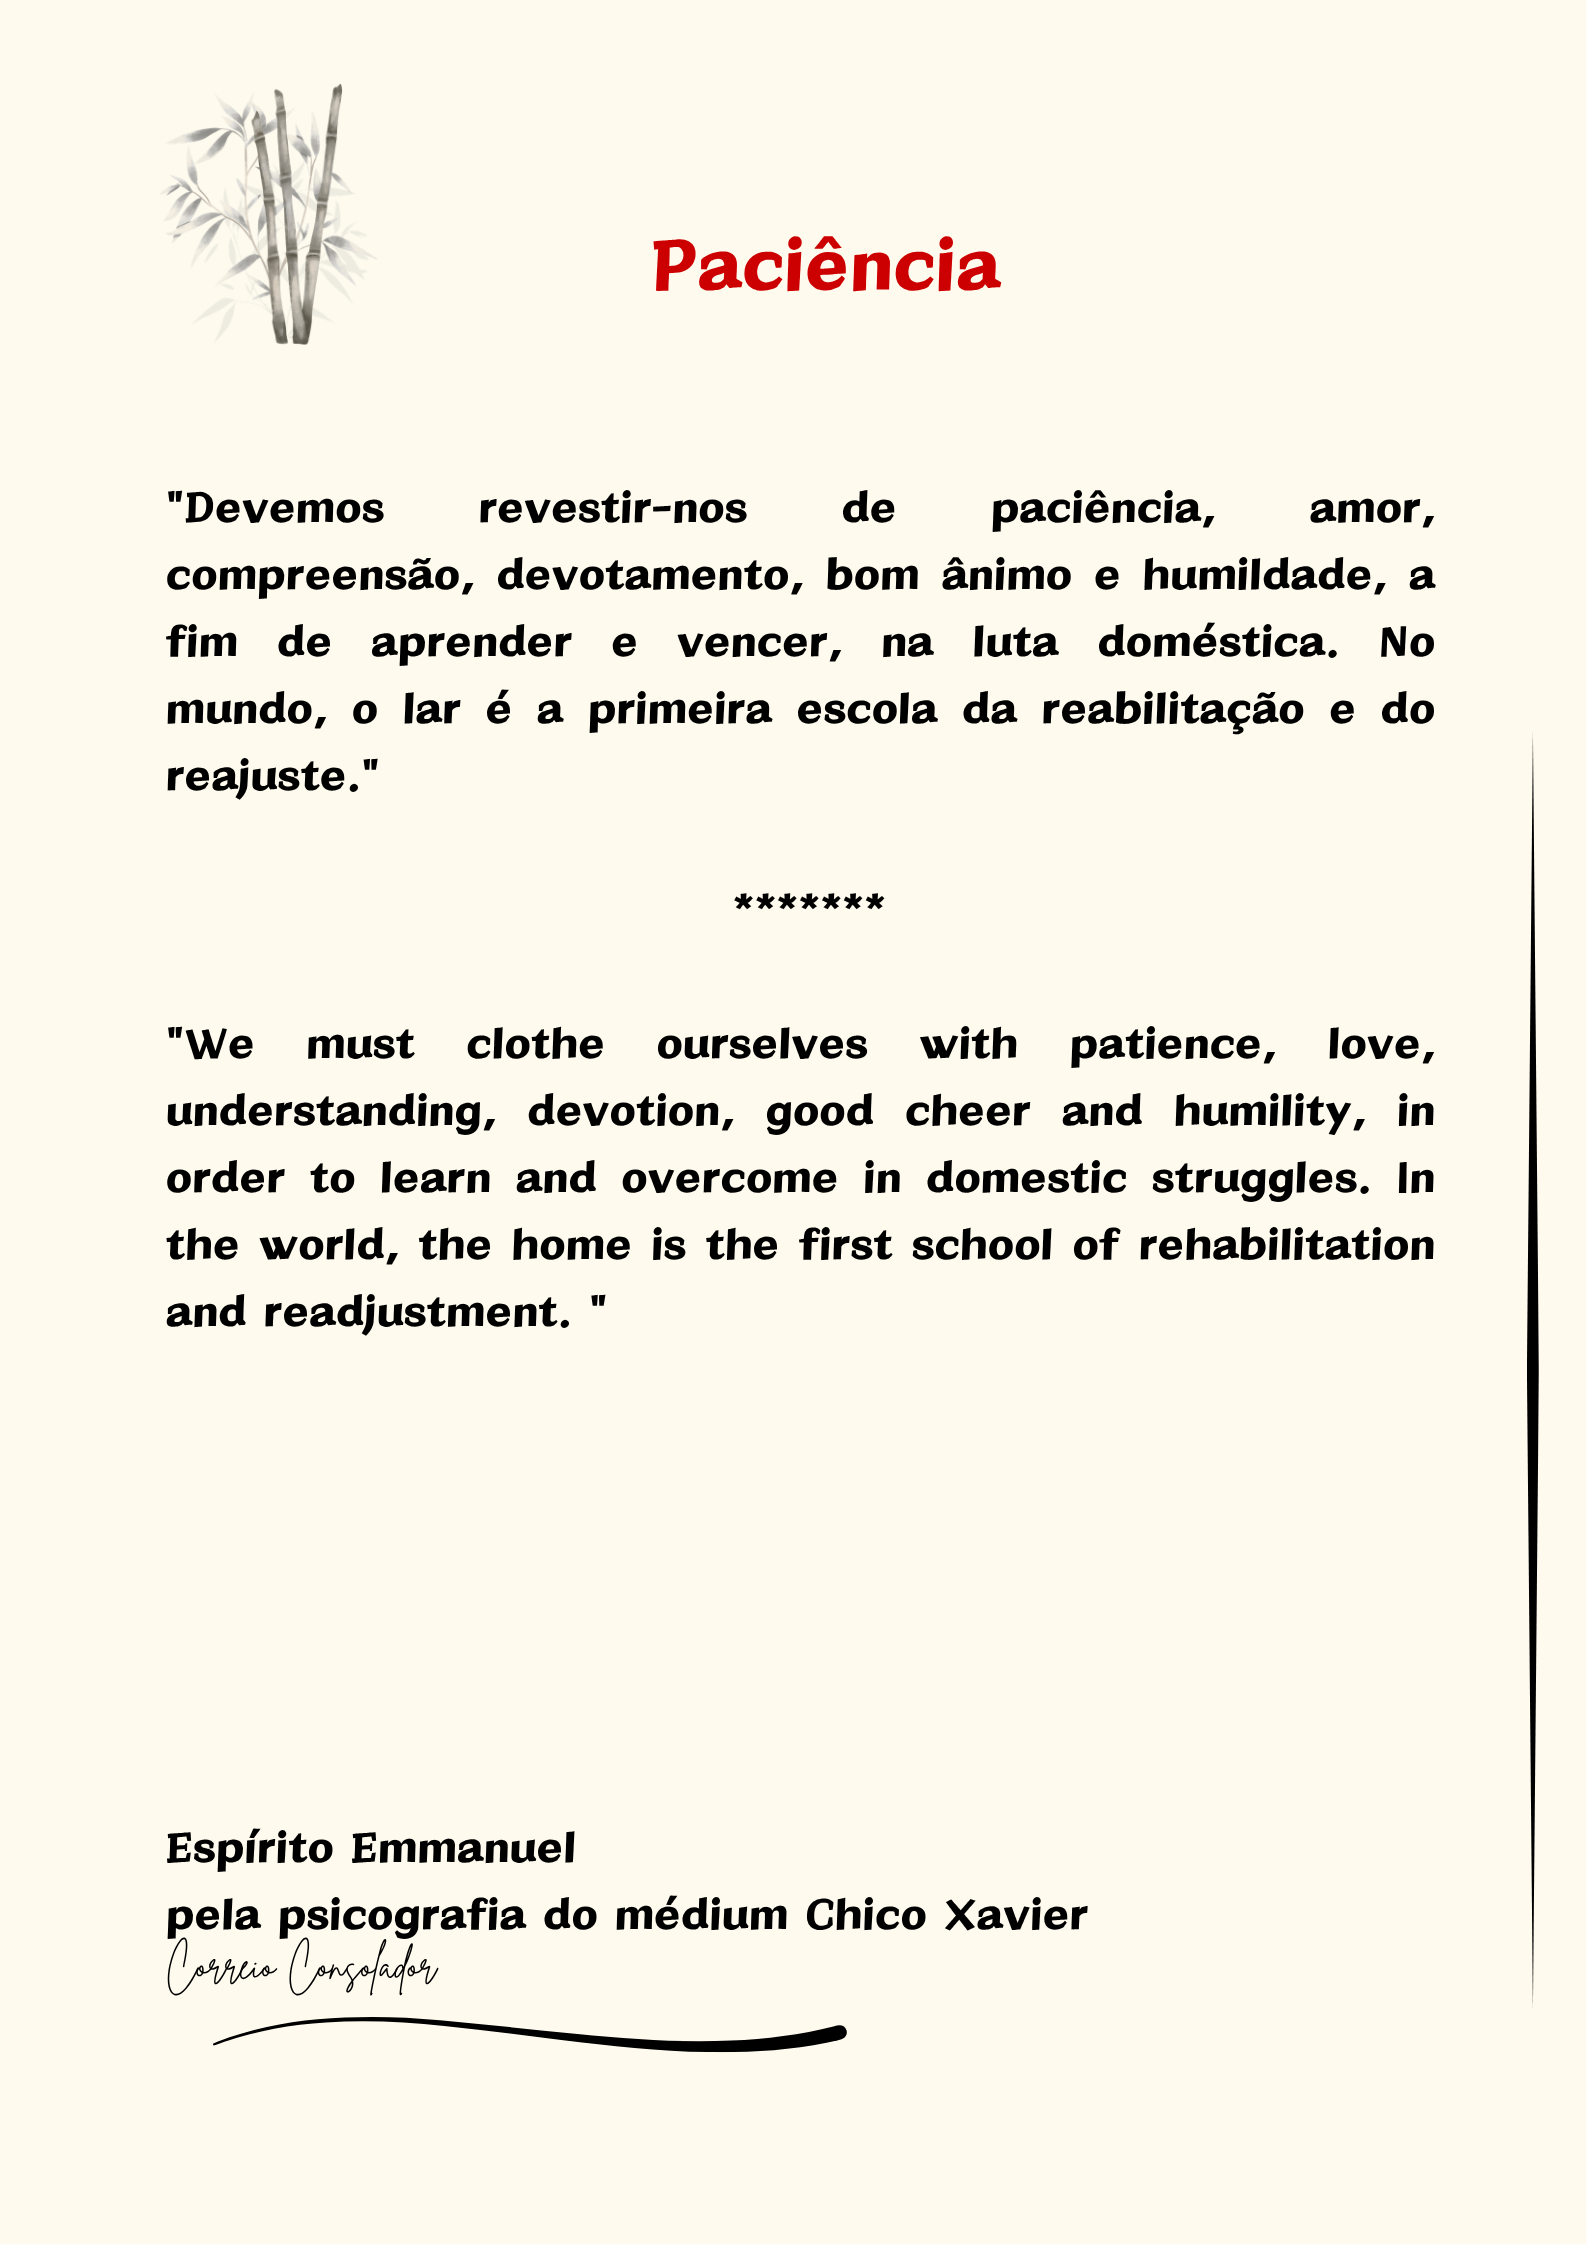
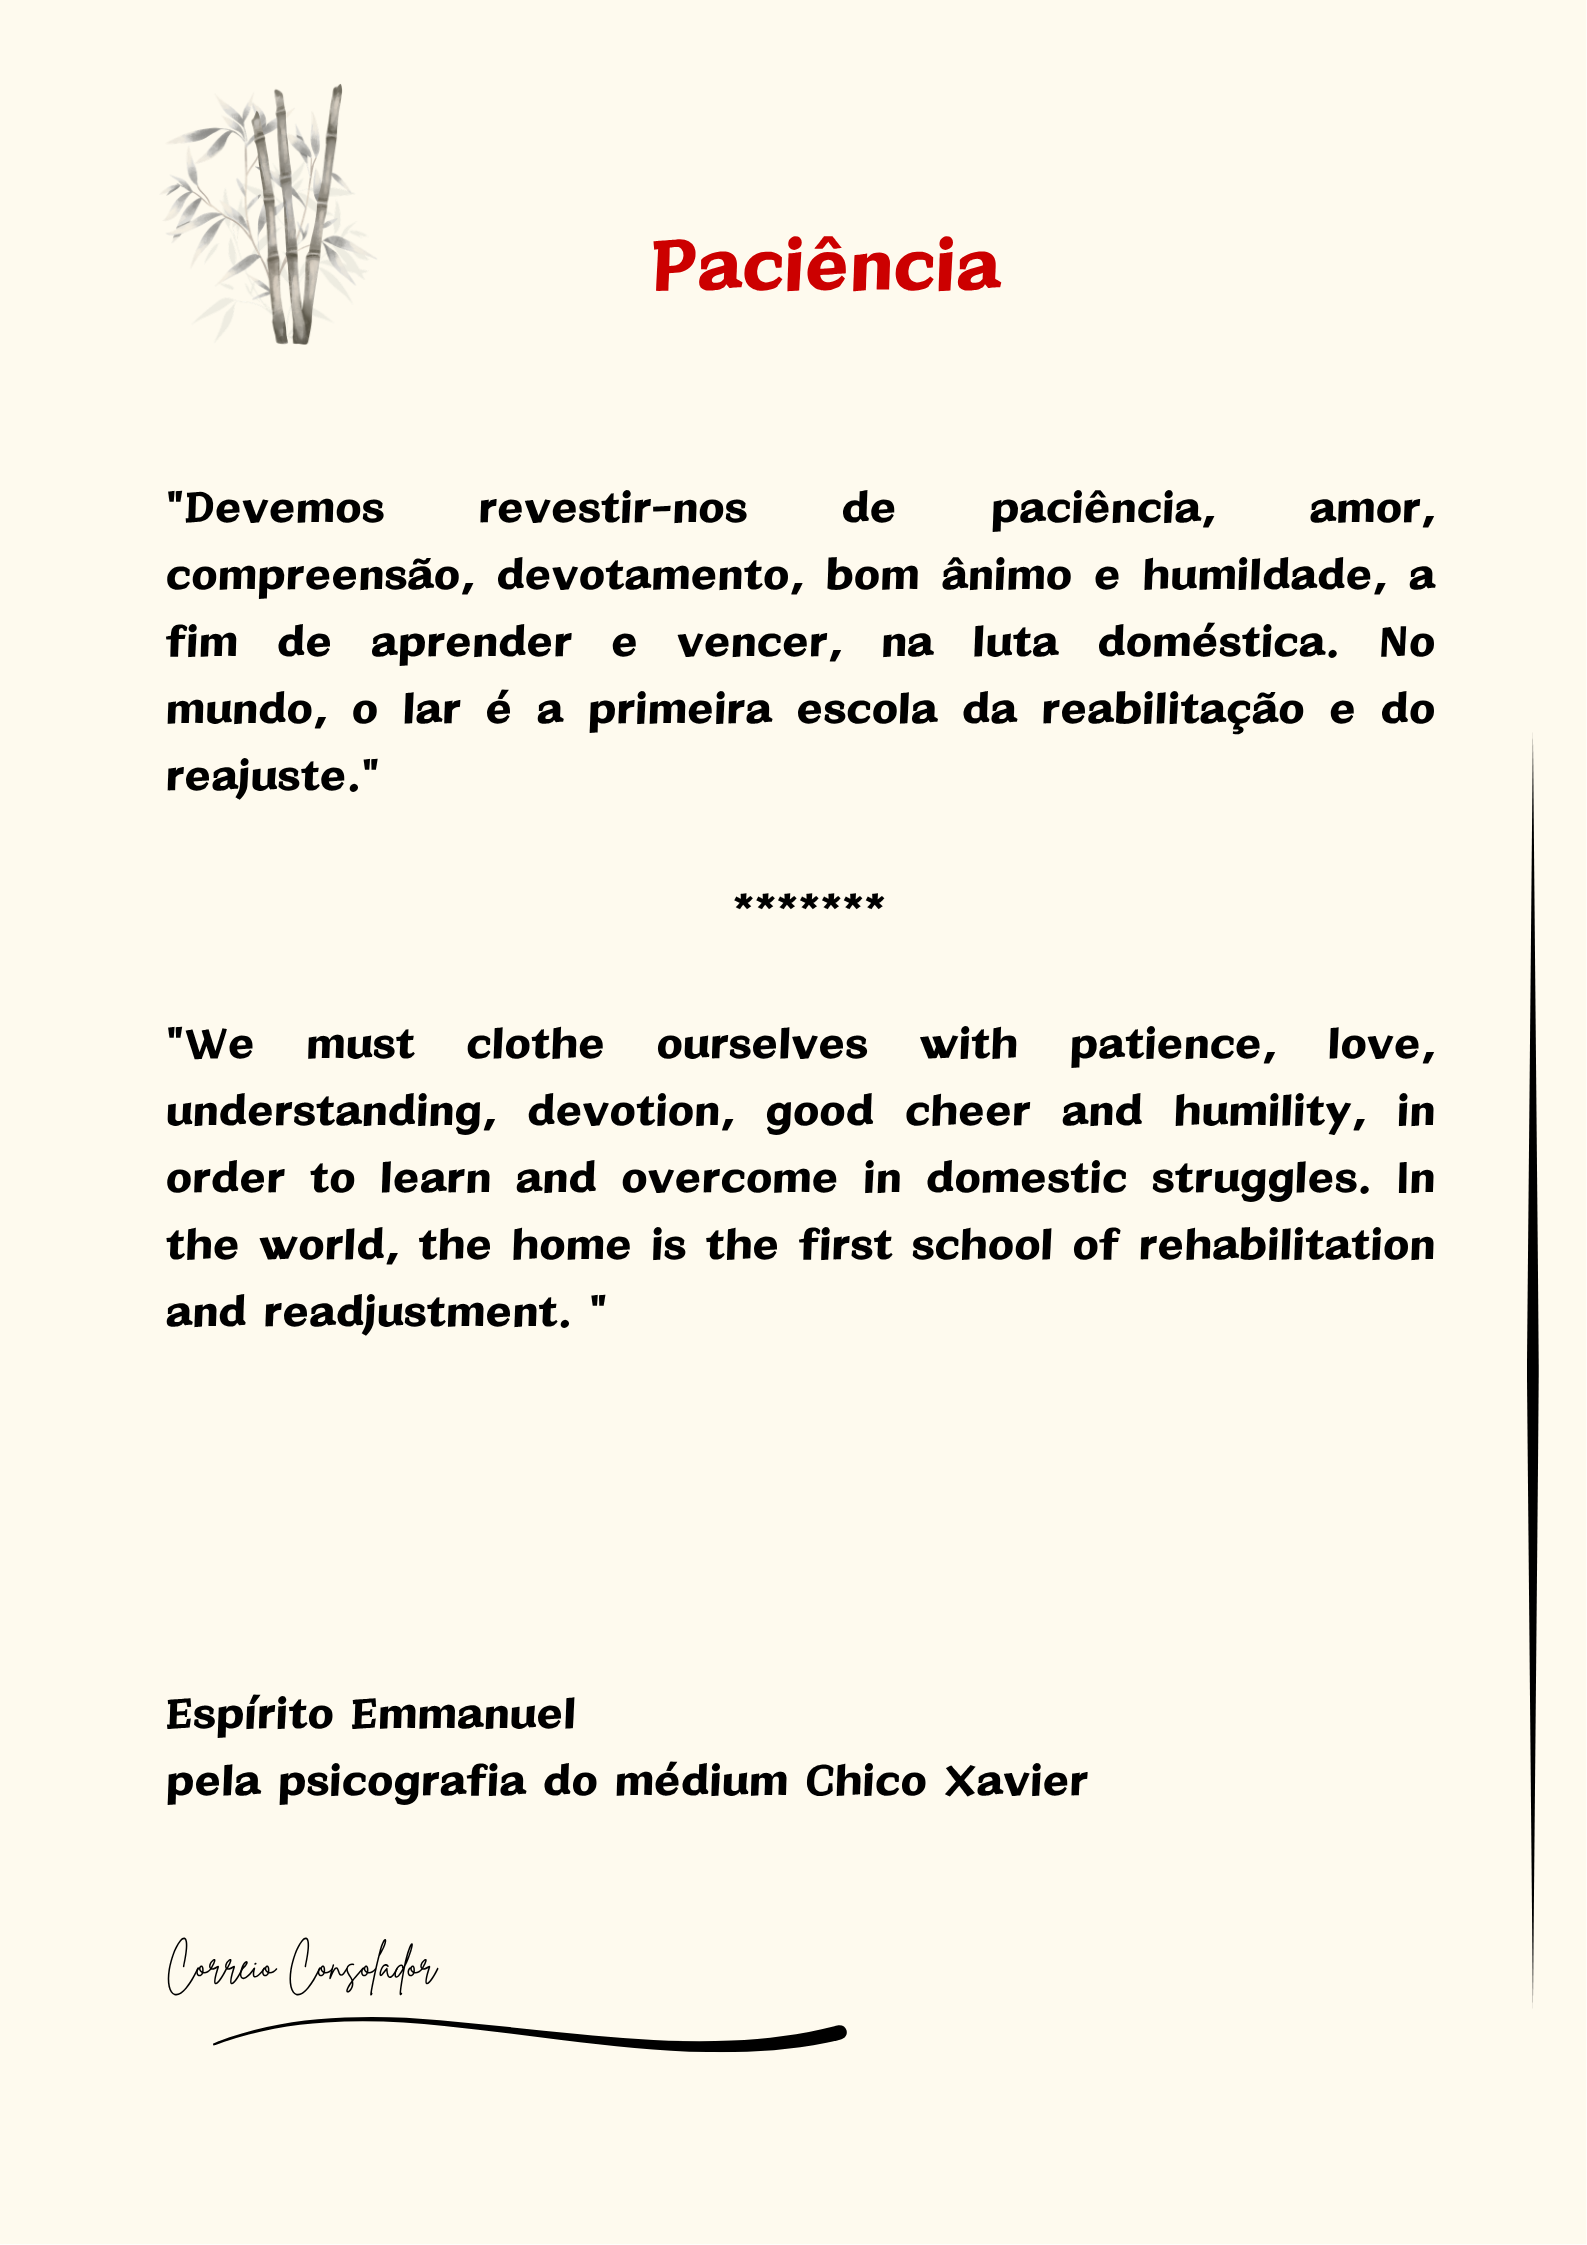
Add de imgs de msgs

Changed region(s): [[0.0926, 0.7483, 0.6793, 0.8731]]

diff --git a/Home.tsx b/Home.tsx
@@ -44,7 +44,11 @@ const INITIAL_PINS: Pin[] = [
   { id: '32', title: 'Bondade',  description: 'Bondade',  imageUrl: '/img/msg-32.png', width: 400, height: 480, tags: ['tag2'] },
   { id: '33', title: 'Leis',  description: 'Leis',  imageUrl: '/img/msg-33.png', width: 400, height: 480, tags: ['tag2'] },
   { id: '34', title: 'Paciência',  description: 'Paciência',  imageUrl: '/img/msg-34.png', width: 400, height: 480, tags: ['tag2'] },
-  { id: '35', title: 'Problemas',  description: 'Problemas',  imageUrl: '/img/msg-35.png', width: 400, height: 480, tags: ['tag2'] }
+  { id: '35', title: 'Problemas',  description: 'Problemas',  imageUrl: '/img/msg-35.png', width: 400, height: 480, tags: ['tag2'] },
+  { id: '36', title: 'Problema',  description: 'Problema',  imageUrl: '/img/msg-36.png', width: 400, height: 480, tags: ['tag2'] },
+  { id: '37', title: 'Alegria',  description: 'Alegria',  imageUrl: '/img/msg-37.png', width: 400, height: 480, tags: ['tag2'] },
+  { id: '38', title: 'Providência',  description: 'Providência',  imageUrl: '/img/msg-38.png', width: 400, height: 480, tags: ['tag2'] },
+  { id: '39', title: 'Se',  description: 'Se',  imageUrl: '/img/msg-39.png', width: 400, height: 480, tags: ['tag2'] }
 
 ];
 
